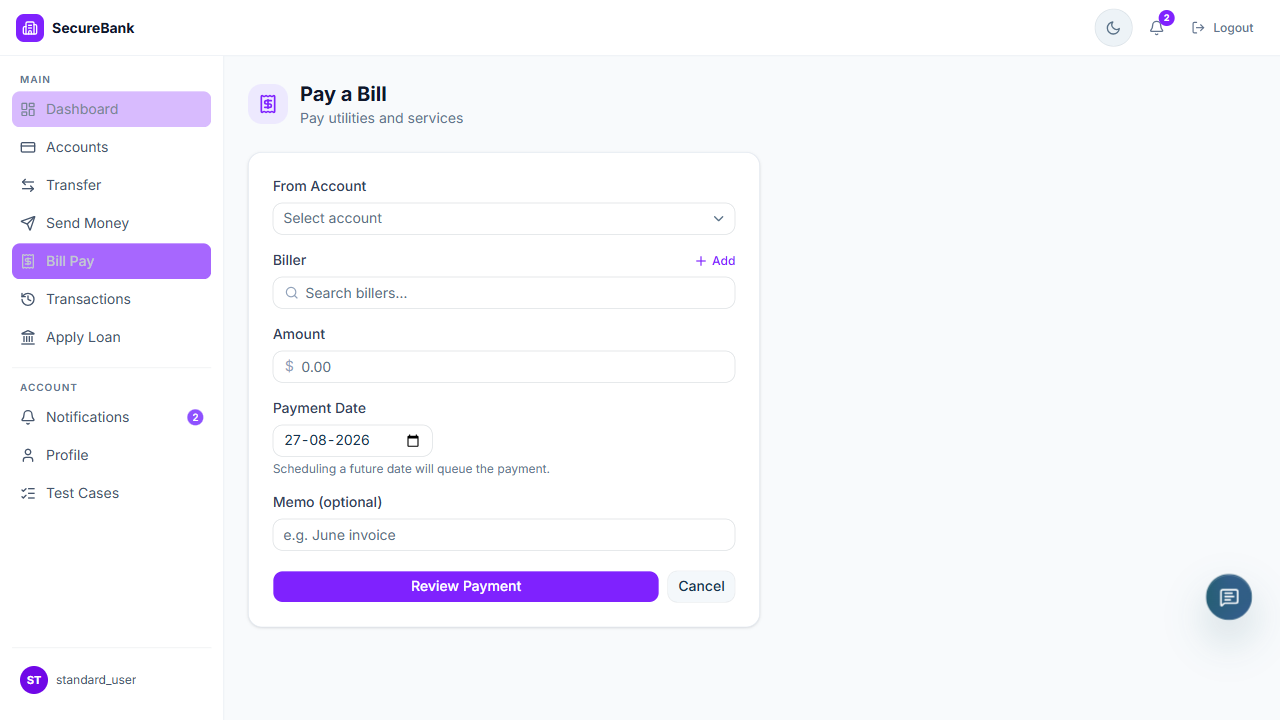
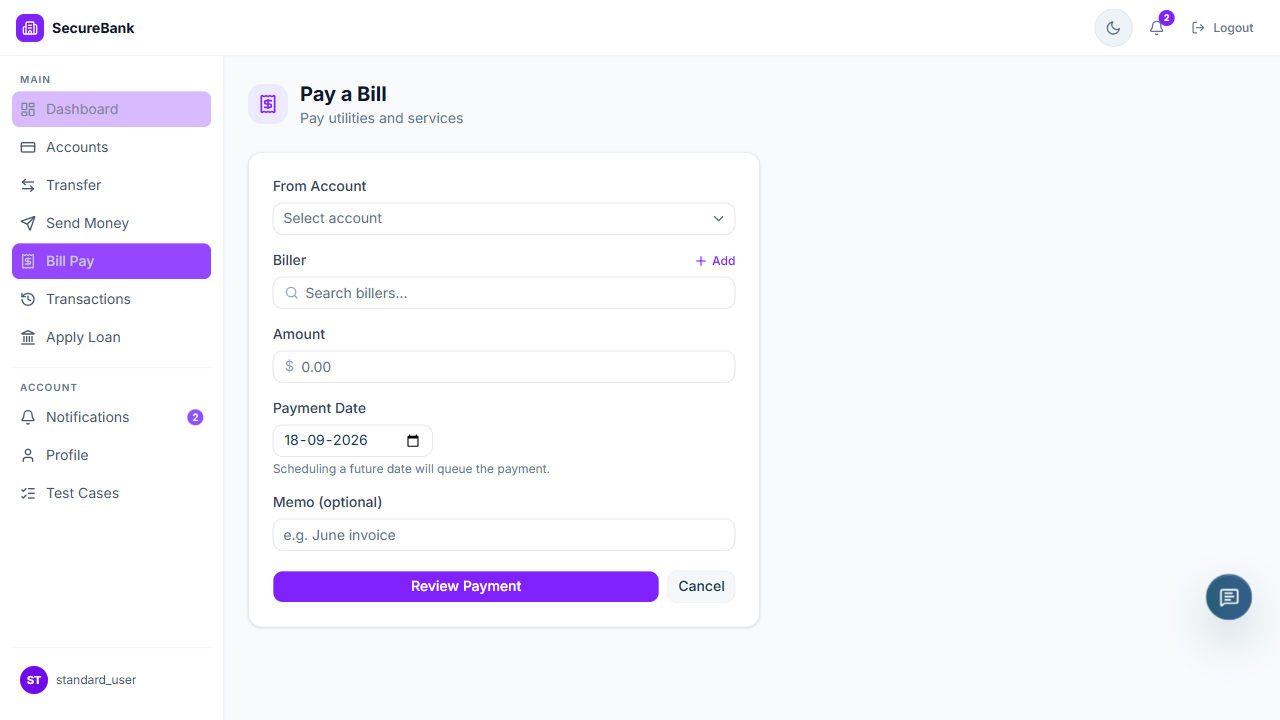
20nd-Sep

Changed region(s): [[0.0, 0.3361, 0.1875, 0.3972], [0.2188, 0.5806, 0.2812, 0.6417]]

diff --git a/tests/test_authentication.py b/tests/test_authentication.py
@@ -1,0 +1,83 @@
+import re
+from playwright.sync_api import Page, expect
+
+BASE_URL = "https://qaplayground.com/bank/login"
+
+
+def test_positive_login(page: Page) -> None:
+    """TC_AUTH_01: Verify successful login using valid credentials"""
+    page.goto(BASE_URL)
+    
+    page.get_by_test_id("login-username-input").fill("standard_user")
+    page.get_by_test_id("login-password-input").fill("bank_sauce")
+    page.get_by_test_id("login-submit-btn").click()
+    
+    page.wait_for_load_state("networkidle")
+    expect(page).to_have_url(re.compile("dashboard"))
+    expect(page.locator("text=SecureBank")).to_be_visible()
+    
+    page.screenshot(path="positive_login_snapshot.png", full_page=True)
+
+
+def test_negative_login(page: Page) -> None:
+    """TC_AUTH_02: Verify error handling for invalid credentials"""
+    page.goto(BASE_URL)
+    
+    page.get_by_test_id("login-username-input").fill("invalid_user")
+    page.get_by_test_id("login-password-input").fill("wrong_password")
+    page.get_by_test_id("login-submit-btn").click()
+    
+    # FIX: Use a broader locator for error feedback or alerts on page
+    error_indicator = page.locator("role=alert").or_(page.locator(".error, [class*='error'], [class*='alert']"))
+    expect(error_indicator.first).to_be_visible()
+    
+    page.screenshot(path="negative_login_snapshot.png", full_page=True)
+
+
+def test_locked_user_handling(page: Page) -> None:
+    """TC_AUTH_03: Verify locked account restrictions for locked_user"""
+    page.goto(BASE_URL)
+    
+    page.get_by_test_id("login-username-input").fill("locked_user")
+    page.get_by_test_id("login-password-input").fill("bank_sauce")
+    page.get_by_test_id("login-submit-btn").click()
+    
+    # FIX: Use case-insensitive regex for lock/error text
+    expect(page.locator("text=/lock|error|invalid/i").first).to_be_visible()
+    
+    page.screenshot(path="locked_user_snapshot.png", full_page=True)
+
+
+def test_frozen_user_restrictions(page: Page) -> None:
+    """TC_AUTH_04: Verify frozen user encounters transfer restrictions"""
+    page.goto(BASE_URL)
+    
+    page.get_by_test_id("login-username-input").fill("frozen_user")
+    page.get_by_test_id("login-password-input").fill("bank_sauce")
+    page.get_by_test_id("login-submit-btn").click()
+    
+    page.wait_for_load_state("networkidle")
+    
+    # Check if transfer page link exists before clicking
+    transfer_link = page.get_by_test_id("sidebar-link-transfer")
+    if transfer_link.is_visible():
+        transfer_link.click()
+        
+    expect(page.locator("text=/freeze|frozen|restrict|error/i").first).to_be_visible()
+    
+    page.screenshot(path="frozen_user_snapshot.png", full_page=True)
+
+
+def test_overdraft_user_handling(page: Page) -> None:
+    """TC_AUTH_05: Verify overdraft user handles negative balances correctly"""
+    page.goto(BASE_URL)
+    
+    page.get_by_test_id("login-username-input").fill("overdraft_user")
+    page.get_by_test_id("login-password-input").fill("bank_sauce")
+    page.get_by_test_id("login-submit-btn").click()
+    
+    page.wait_for_load_state("networkidle")
+    page.get_by_test_id("sidebar-link-accounts").click()
+    expect(page.locator("text=-")).to_be_visible()
+    
+    page.screenshot(path="overdraft_user_snapshot.png", full_page=True)

diff --git a/tests/test_profile_update.py b/tests/test_profile_update.py
@@ -1,0 +1,41 @@
+import re
+from playwright.sync_api import Page, expect
+
+BASE_URL = "https://qaplayground.com/bank/login"
+
+
+def login(page: Page):
+    """Helper function to log in with standard credentials"""
+    page.goto(BASE_URL)
+    page.get_by_test_id("login-username-input").fill("standard_user")
+    page.get_by_test_id("login-password-input").fill("bank_sauce")
+    page.get_by_test_id("login-submit-btn").click()
+    page.wait_for_load_state("networkidle")
+
+
+def test_verify_successful_profile_update(page: Page) -> None:
+    """Test Case: Verify users can modify personal details and see confirmation"""
+    login(page)
+    
+    # 1. Navigate to profile page via sidebar
+    page.get_by_test_id("sidebar-link-profile").click()
+    page.wait_for_load_state("networkidle")
+    
+    # 2. Click the "Edit" button in the Personal Information card
+    page.get_by_role("button", name="Edit").click()
+    
+    # 3. Target input fields reliably (e.g., updating the phone input field safely)
+    # Using locator based on type and filtering or grabbing input elements inside the card
+    phone_input = page.locator("input").filter(has_not=page.locator("[type='hidden']")).locator("nth=3")
+    phone_input.click()
+    phone_input.fill("(415) 555-9999")
+    
+    # 4. Click the Save / Submit button 
+    page.get_by_role("button", name=re.compile("Save|Update|Submit", re.IGNORECASE)).click()
+    
+    # 5. Verify success or updated text reflection
+    page.wait_for_load_state("networkidle")
+    expect(page.locator("text=(415) 555-9999")).to_be_visible()
+    
+    # 6. Capture final state snapshot
+    page.screenshot(path="profile_update_snapshot.png", full_page=True)

diff --git a/tests/test_profile.py b/tests/test_profile.py
@@ -1,0 +1,32 @@
+import re
+from playwright.sync_api import Page, expect
+
+BASE_URL = "https://qaplayground.com/bank/login"
+
+
+def login(page: Page):
+    """Helper function to log in with standard credentials"""
+    page.goto(BASE_URL)
+    page.get_by_test_id("login-username-input").fill("standard_user")
+    page.get_by_test_id("login-password-input").fill("bank_sauce")
+    page.get_by_test_id("login-submit-btn").click()
+    page.wait_for_load_state("networkidle")
+
+
+def test_verify_personal_information(page: Page) -> None:
+    """Test Case: Verify personal information fields load accurately and capture snapshot"""
+    login(page)
+    
+    # Navigate to profile via test ID
+    page.get_by_test_id("sidebar-link-profile").click()
+    
+    # Wait for profile card or section to load explicitly
+    expect(page.locator("text=Personal Information")).to_be_visible()
+    
+    # Use precise profile data selectors to avoid matching multiple elements
+    expect(page.get_by_test_id("profile-first-name")).to_have_text("Alex")
+    expect(page.get_by_test_id("profile-last-name")).to_have_text("Morgan")
+    expect(page.get_by_test_id("profile-email")).to_have_text("alex.morgan@example.com")
+    
+    # Take a screenshot snapshot at the end of the test
+    page.screenshot(path="profile_snapshot.png", full_page=True)

diff --git a/tests/test_billpay.py b/tests/test_billpay.py
@@ -22,7 +22,7 @@ def test_screenshot_payment_schedule(authenticated_page: Page):
         from_account="Everyday Checking",
         biller="City Electric Co.",
         amount="20.00",
-        payment_date="2026-08-27"
+        payment_date="2030-08-27"
     )
     
     # Saves the completed confirmation screen

diff --git a/tests/test_login.py b/tests/test_login.py
@@ -3,7 +3,7 @@ from datetime import datetime
 from pages.login_page import LoginPage
 from pages.accounts_page import AccountsPage
 from config.config import Config
-import allure
+import allure#
 current_time = datetime.now().strftime("%Y-%m-%d_%H-%M-%S")
 
 @allure.title("Login and Create Account")
